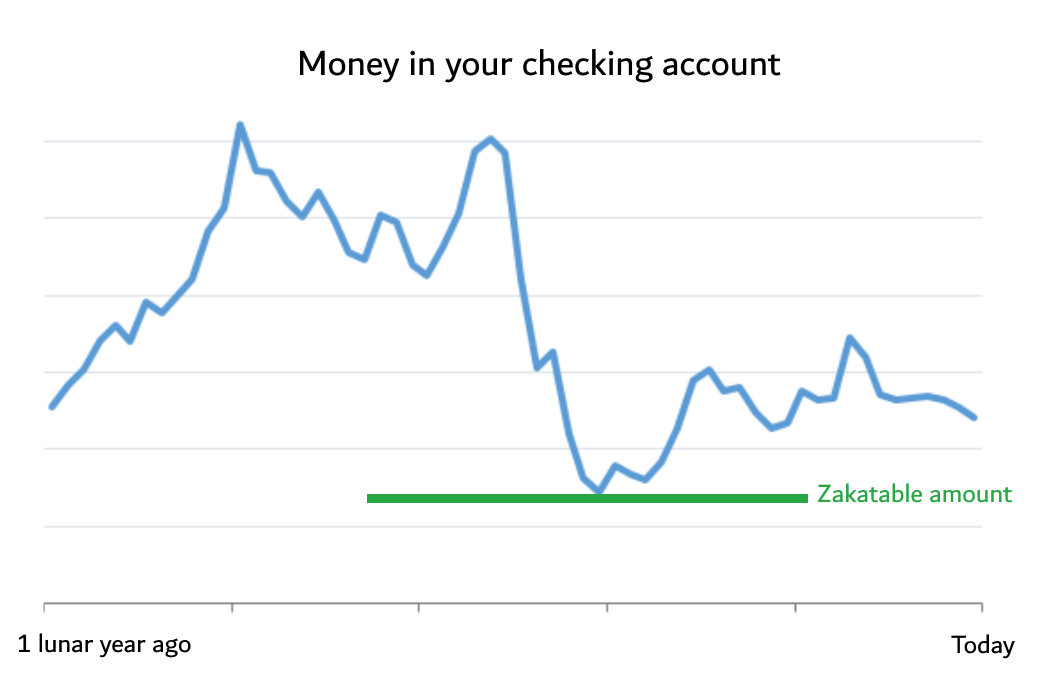
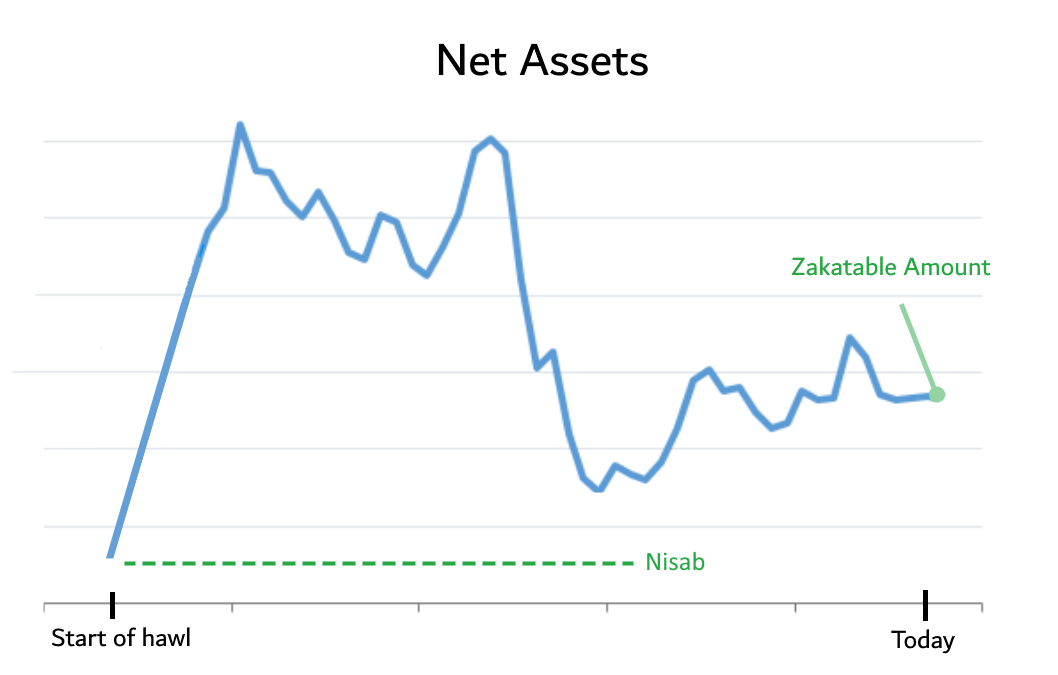
updated hawl info

diff --git a/index.html b/index.html
@@ -108,10 +108,10 @@
     </div>
 
     <p class="p1"><span class="numbered-item"></span> Know the Niṣāb </p>
-    <p class="explanation"> The niṣāb is the minimum (liable) amount that a Muslim must have to be obligated to pay Zakat. This amount was set by our Prophet Muhammad (S) at 21 ounces of Silver. We will not be using the gold nisab calculation in this calculator to stay true to Sheikh Joe Bradford's method. Based on today's price of Silver per ounce, the niṣāb is <strong><span class="currency-prepend">$</span><span class="nisab-price-value">318.23</span></strong>. We will automatically let you know if you're under the niṣāb amount.</p>
+    <p class="explanation"> The niṣāb is the minimum (liable) amount that a Muslim must have to be obligated to pay Zakat. This amount was set by our Prophet Muhammad (S) at 21 ounces of Silver. Based on today's price of Silver per ounce, the niṣāb is <strong><span class="currency-prepend">$</span><span class="nisab-price-value">318.23</span></strong>. We will automatically let you know if you're under the niṣāb amount. <b>Note:</b> we will <em>not</em> be using the gold nisab calculation in this calculator to stay true to Sheikh Joe Bradford's method. </p>
 
     <p class="p1"><span class="numbered-item"></span> Understand the <em>Hawl</em> </p>
-    <p class="explanation"> The <em>hawl</em> is the the Zakat Year, like a fiscal year, but used to calculate your Zakat. The length of the <em>hawl</em> is at most 1 lunar year, or when you last paid Zakat. You pay Zakat on your net assets that you owned consistently for the entire hawl. When putting your assets below, put the amount that you have owned consistently for the entire year, like shown in the chart below. </p>
+    <p class="explanation"> The <em>hawl</em> is the the Zakat Year, like a fiscal year, but used to calculate your Zakat. The <em>hawl</em> starts when your assets first reached the minimum niṣāb. Once 1 lunar year has passed, and your assets have been consistently above the niṣāb, you pay Zakat on your assets at that point, like shown in the chart below. </p>
 
     <center>
      <img src="assets/chart.png" style="width:90%; max-width: 500px; border: 2px solid black">
